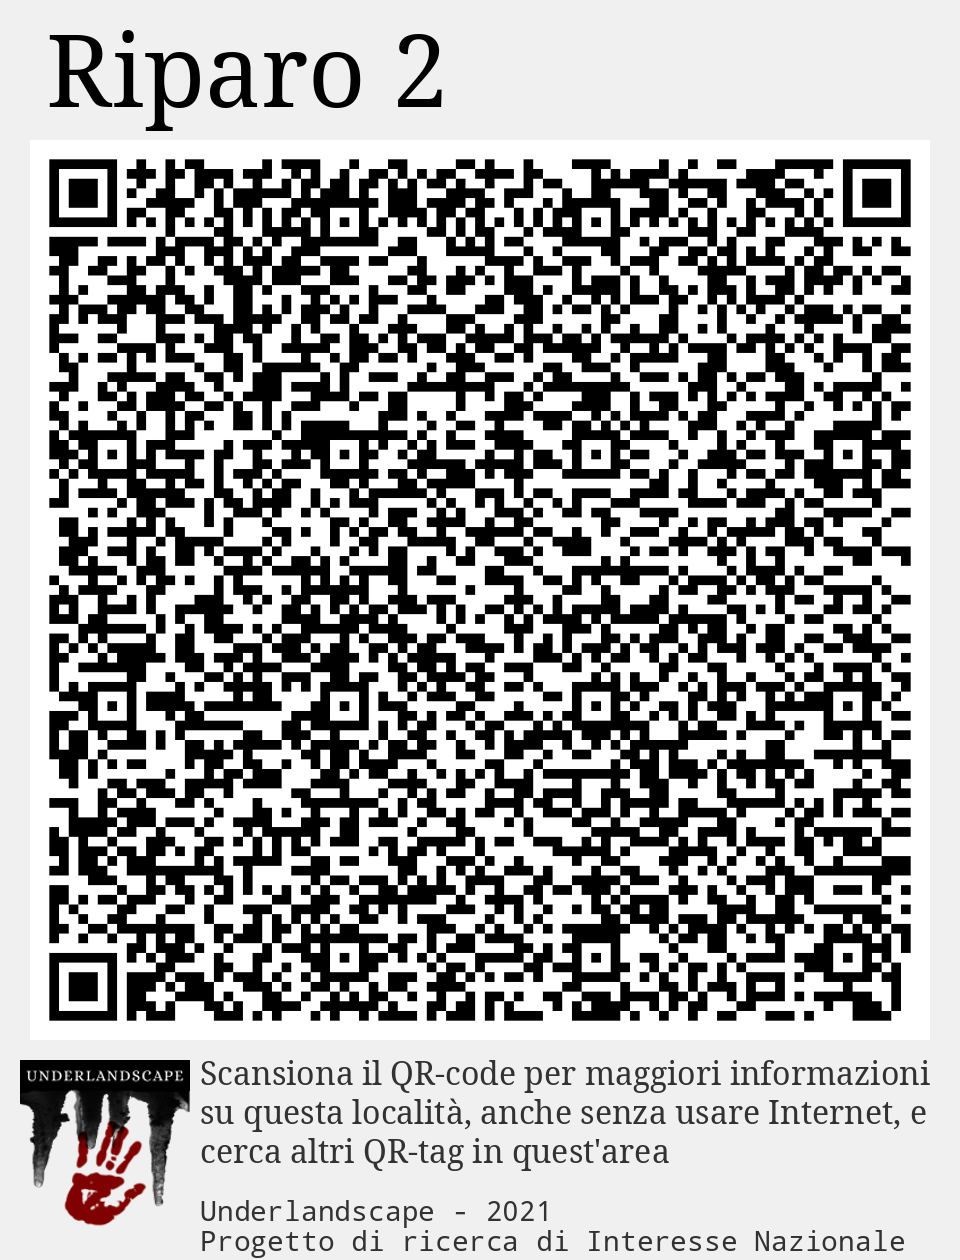
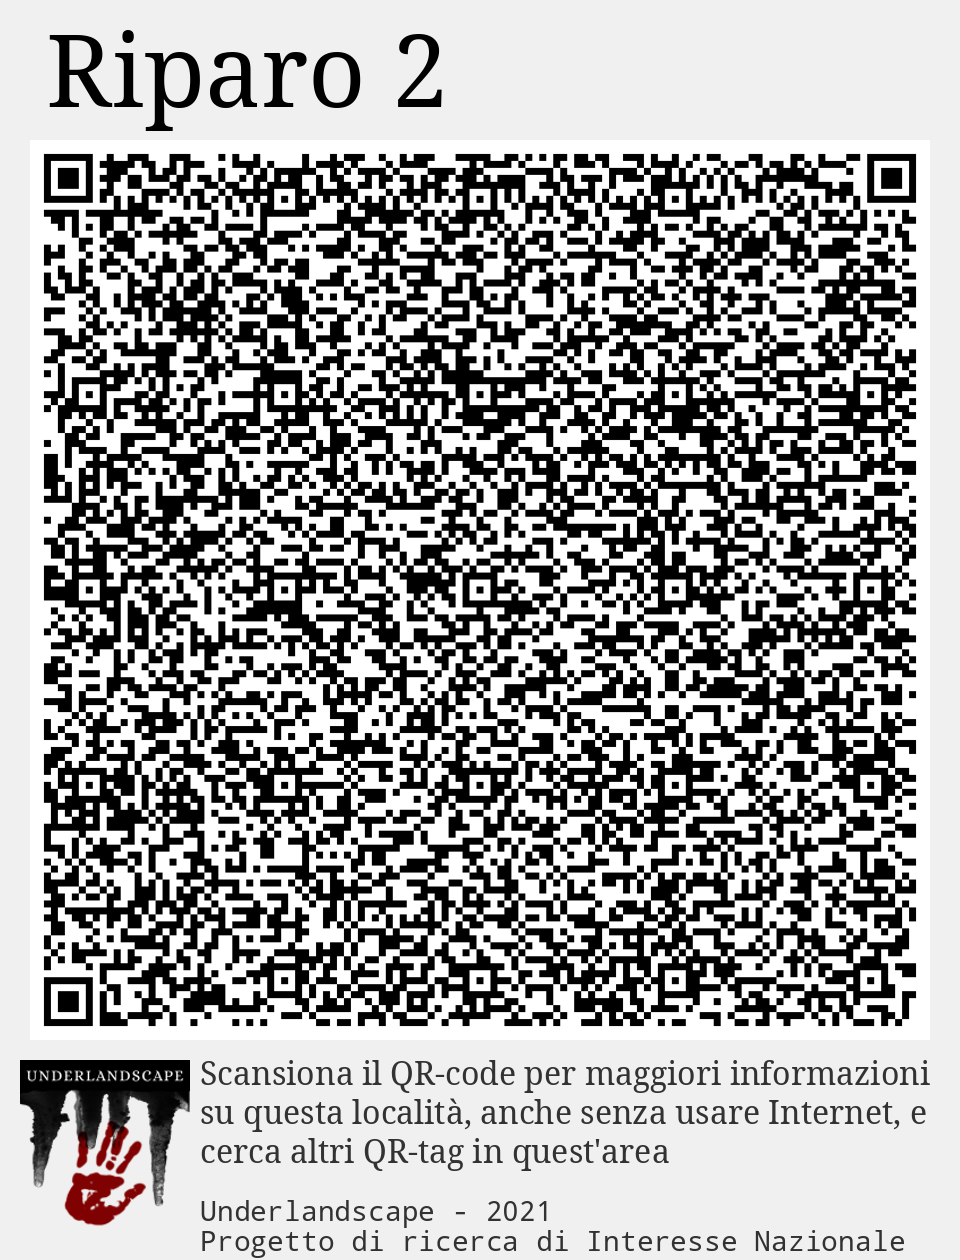
new commit

diff --git a/README.md b/README.md
@@ -8,7 +8,7 @@
 
 **Deviazione dal greto del torrente verso la Piella**
 ## QRtag: Riparo 2
-[<img src='vignettes/wTHnqrF3.jpg' width='250'/>](vignettes/wTHnqrF3.jpg) 
+[<img src='qrtags/1111111.png' width='150'/>](qrtags/1111111.png) [<img src='vignettes/wTHnqrF3.jpg' width='250'/>](vignettes/wTHnqrF3.jpg) 
 
 **Riparo sottoroccia**
 ## POI: Ingresso Piella
